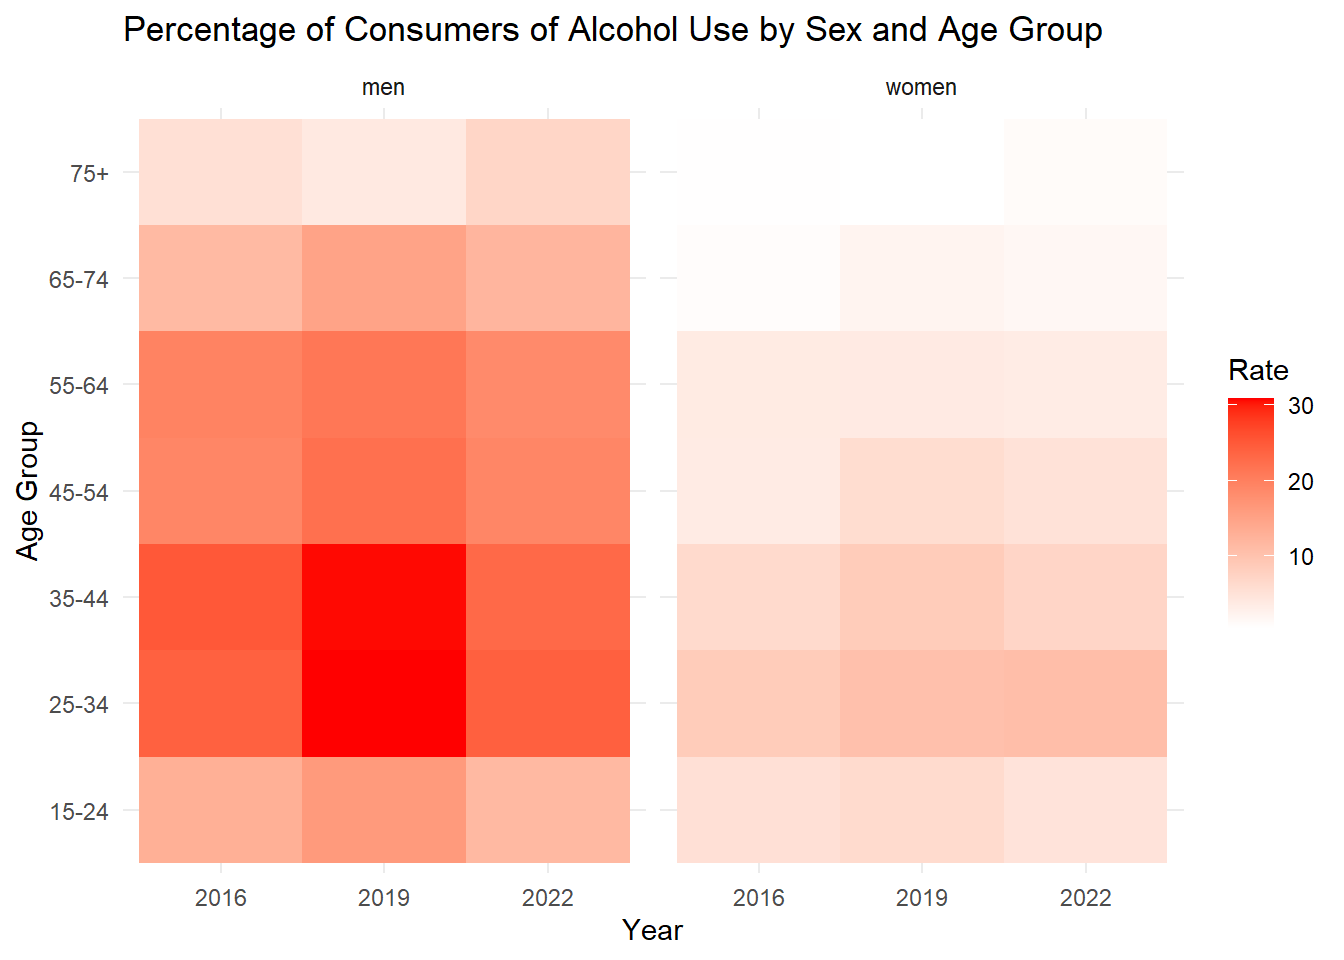
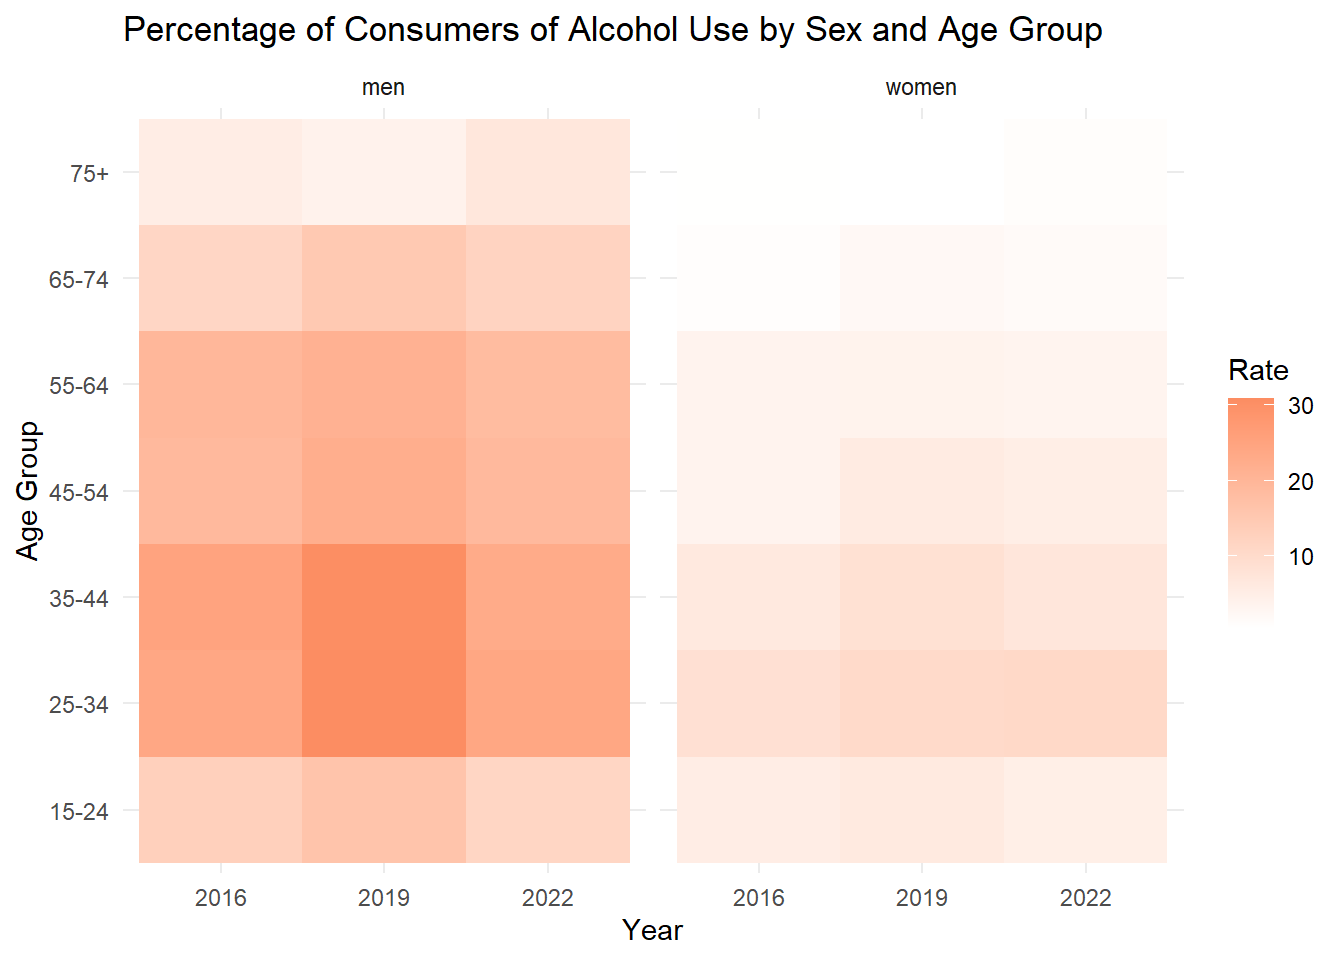
güncelleme

diff --git a/docs/analysis.html b/docs/analysis.html
@@ -2,7 +2,7 @@
 <html xmlns="http://www.w3.org/1999/xhtml" lang="en" xml:lang="en"><head>
 
 <meta charset="utf-8">
-<meta name="generator" content="quarto-1.3.450">
+<meta name="generator" content="quarto-1.3.433">
 
 <meta name="viewport" content="width=device-width, initial-scale=1.0, user-scalable=yes">
 
@@ -226,8 +226,8 @@ pre > code.sourceCode > span > a:first-child::before { text-decoration: underlin
 <span id="cb1-19"><a href="#cb1-19" aria-hidden="true" tabindex="-1"></a>plot</span></code><button title="Copy to Clipboard" class="code-copy-button"><i class="bi"></i></button></pre></div>
 </details>
 <div class="cell-output-display">
-<div class="plotly html-widget html-fill-item" id="htmlwidget-7568283c0e7cecffbe26" style="width:100%;height:464px;"></div>
-<script type="application/json" data-for="htmlwidget-7568283c0e7cecffbe26">{"x":{"visdat":{"f20321f6464":["function () ","plotlyVisDat"]},"cur_data":"f20321f6464","attrs":{"f20321f6464":{"x":{},"y":{},"color":{},"colors":["#1E7DFF","#FC90FF"],"alpha_stroke":1,"sizes":[10,100],"spans":[1,20],"type":"bar"}},"layout":{"margin":{"b":40,"l":60,"t":25,"r":10},"title":{"text":"Average Percentage by Disease with Gender Connection","x":0,"y":1},"xaxis":{"domain":[0,1],"automargin":true,"title":"Diseases","zeroline":false,"tickangle":45,"categoryorder":"trace","type":"category","categoryarray":["Allr","Alzh","Arth","Asth","Copd","Cotlld","Crhd","Dbts","Dprs","Hgbl","Hgbp","Kdnp","Lwbd","Myci","Nckd","Strk","Uipictb"]},"yaxis":{"domain":[0,1],"automargin":true,"title":"Percentage","zeroline":false},"hovermode":"closest","showlegend":true},"source":"A","config":{"modeBarButtonsToAdd":["hoverclosest","hovercompare"],"showSendToCloud":false},"data":[{"x":["Allr","Alzh","Arth","Asth","Copd","Cotlld","Crhd","Dprs","Dbts","Hgbl","Hgbp","Kdnp","Lwbd","Myci","Nckd","Strk","Uipictb"],"y":[7.6779724364790409,5.3735703163394026,5.7861340508108352,5.4275524307911525,5.3487673130767153,1.2211441964735044,6.1027062144225388,5.0380604186408977,8.103265201840971,4.9368112027380731,11.5245198134687,4.7809546304106592,21.107182608504147,2.3602249481860236,11.684533032437804,0.90560624507417242,4.2804255594739535],"type":"bar","name":"men","marker":{"color":"rgba(30,125,255,1)","line":{"color":"rgba(30,125,255,1)"}},"textfont":{"color":"rgba(30,125,255,1)"},"error_y":{"color":"rgba(30,125,255,1)"},"error_x":{"color":"rgba(30,125,255,1)"},"xaxis":"x","yaxis":"y","frame":null},{"x":["Allr","Alzh","Arth","Asth","Copd","Cotlld","Crhd","Dprs","Dbts","Hgbl","Hgbp","Kdnp","Lwbd","Myci","Nckd","Strk","Uipictb"],"y":[14.013354177019723,5.9661781636778537,12.036993765963658,11.045274753893148,8.5300229406048889,1.6750226626665816,7.2785837708678409,10.282917184487278,12.301164289146438,8.0835690134560902,20.579644953340797,6.6018280674777809,33.049019195086963,2.0844825219114096,25.337287795368688,0.83531329571133883,8.4416502158828646],"type":"bar","name":"women","marker":{"color":"rgba(252,144,255,1)","line":{"color":"rgba(252,144,255,1)"}},"textfont":{"color":"rgba(252,144,255,1)"},"error_y":{"color":"rgba(252,144,255,1)"},"error_x":{"color":"rgba(252,144,255,1)"},"xaxis":"x","yaxis":"y","frame":null}],"highlight":{"on":"plotly_click","persistent":false,"dynamic":false,"selectize":false,"opacityDim":0.20000000000000001,"selected":{"opacity":1},"debounce":0},"shinyEvents":["plotly_hover","plotly_click","plotly_selected","plotly_relayout","plotly_brushed","plotly_brushing","plotly_clickannotation","plotly_doubleclick","plotly_deselect","plotly_afterplot","plotly_sunburstclick"],"base_url":"https://plot.ly"},"evals":[],"jsHooks":[]}</script>
+<div class="plotly html-widget html-fill-item" id="htmlwidget-3ce546a6bacd449e5298" style="width:100%;height:464px;"></div>
+<script type="application/json" data-for="htmlwidget-3ce546a6bacd449e5298">{"x":{"visdat":{"43e0755796f":["function () ","plotlyVisDat"]},"cur_data":"43e0755796f","attrs":{"43e0755796f":{"x":{},"y":{},"color":{},"colors":["#1E7DFF","#FC90FF"],"alpha_stroke":1,"sizes":[10,100],"spans":[1,20],"type":"bar"}},"layout":{"margin":{"b":40,"l":60,"t":25,"r":10},"title":{"text":"Average Percentage by Disease with Gender Connection","x":0,"y":1},"xaxis":{"domain":[0,1],"automargin":true,"title":"Diseases","zeroline":false,"tickangle":45,"categoryorder":"trace","type":"category","categoryarray":["Allr","Alzh","Arth","Asth","Copd","Cotlld","Crhd","Dbts","Dprs","Hgbl","Hgbp","Kdnp","Lwbd","Myci","Nckd","Strk","Uipictb"]},"yaxis":{"domain":[0,1],"automargin":true,"title":"Percentage","zeroline":false},"hovermode":"closest","showlegend":true},"source":"A","config":{"modeBarButtonsToAdd":["hoverclosest","hovercompare"],"showSendToCloud":false},"data":[{"x":["Allr","Alzh","Arth","Asth","Copd","Cotlld","Crhd","Dprs","Dbts","Hgbl","Hgbp","Kdnp","Lwbd","Myci","Nckd","Strk","Uipictb"],"y":[7.6779724364790409,5.3735703163394026,5.7861340508108352,5.4275524307911525,5.3487673130767153,1.2211441964735044,6.1027062144225388,5.0380604186408977,8.103265201840971,4.9368112027380731,11.5245198134687,4.7809546304106592,21.107182608504147,2.3602249481860236,11.684533032437804,0.90560624507417242,4.2804255594739535],"type":"bar","name":"men","marker":{"color":"rgba(30,125,255,1)","line":{"color":"rgba(30,125,255,1)"}},"textfont":{"color":"rgba(30,125,255,1)"},"error_y":{"color":"rgba(30,125,255,1)"},"error_x":{"color":"rgba(30,125,255,1)"},"xaxis":"x","yaxis":"y","frame":null},{"x":["Allr","Alzh","Arth","Asth","Copd","Cotlld","Crhd","Dprs","Dbts","Hgbl","Hgbp","Kdnp","Lwbd","Myci","Nckd","Strk","Uipictb"],"y":[14.013354177019723,5.9661781636778537,12.036993765963658,11.045274753893148,8.5300229406048889,1.6750226626665816,7.2785837708678409,10.282917184487278,12.301164289146438,8.0835690134560902,20.579644953340797,6.6018280674777809,33.049019195086963,2.0844825219114096,25.337287795368688,0.83531329571133883,8.4416502158828646],"type":"bar","name":"women","marker":{"color":"rgba(252,144,255,1)","line":{"color":"rgba(252,144,255,1)"}},"textfont":{"color":"rgba(252,144,255,1)"},"error_y":{"color":"rgba(252,144,255,1)"},"error_x":{"color":"rgba(252,144,255,1)"},"xaxis":"x","yaxis":"y","frame":null}],"highlight":{"on":"plotly_click","persistent":false,"dynamic":false,"selectize":false,"opacityDim":0.20000000000000001,"selected":{"opacity":1},"debounce":0},"shinyEvents":["plotly_hover","plotly_click","plotly_selected","plotly_relayout","plotly_brushed","plotly_brushing","plotly_clickannotation","plotly_doubleclick","plotly_deselect","plotly_afterplot","plotly_sunburstclick"],"base_url":"https://plot.ly"},"evals":[],"jsHooks":[]}</script>
 </div>
 </div>
 </section>
@@ -278,8 +278,8 @@ pre > code.sourceCode > span > a:first-child::before { text-decoration: underlin
 <span id="cb3-14"><a href="#cb3-14" aria-hidden="true" tabindex="-1"></a>p6</span></code><button title="Copy to Clipboard" class="code-copy-button"><i class="bi"></i></button></pre></div>
 </details>
 <div class="cell-output-display">
-<div class="plotly html-widget html-fill-item" id="htmlwidget-317a37f352e36abebb73" style="width:100%;height:464px;"></div>
-<script type="application/json" data-for="htmlwidget-317a37f352e36abebb73">{"x":{"visdat":{"f2072af35fe":["function () ","plotlyVisDat"]},"cur_data":"f2072af35fe","attrs":{"f2072af35fe":{"x":{},"y":{},"color":{},"colors":["#1E7DFF","#FC90FF"],"alpha_stroke":1,"sizes":[10,100],"spans":[1,20],"type":"box"}},"layout":{"margin":{"b":40,"l":60,"t":25,"r":10},"boxmode":"group","title":"Distribution of Percentage by Gender for Each Disease","xaxis":{"domain":[0,1],"automargin":true,"title":"Diseases","zeroline":false,"type":"category","categoryorder":"array","categoryarray":["Lwbd","Nckd","Hgbp","Allr","Dbts","Arth","Asth","Dprs","Copd","Crhd","Hgbl","Uipictb","Kdnp","Alzh","Myci","Cotlld","Strk"]},"yaxis":{"domain":[0,1],"automargin":true,"title":"Percentage","zeroline":false},"hovermode":"closest","showlegend":true},"source":"A","config":{"modeBarButtonsToAdd":["hoverclosest","hovercompare"],"showSendToCloud":false},"data":[{"fillcolor":"rgba(30,125,255,0.5)","x":["Allr","Allr","Allr","Alzh","Alzh","Alzh","Arth","Arth","Arth","Asth","Asth","Asth","Copd","Copd","Copd","Cotlld","Cotlld","Cotlld","Crhd","Crhd","Crhd","Dprs","Dprs","Dprs","Dbts","Dbts","Dbts","Hgbl","Hgbl","Hgbl","Hgbp","Hgbp","Hgbp","Kdnp","Kdnp","Kdnp","Myci","Myci","Myci","Nckd","Nckd","Nckd","Strk","Strk","Strk","Uipictb","Uipictb","Uipictb","Lwbd","Lwbd","Lwbd"],"y":[7.5405907316304335,8.926596937477143,6.5667296403295454,5.0956861842644736,5.955258175231009,5.0697665895227262,4.8583613280283595,7.6369456060174947,4.8630952183866514,5.2344601627083343,5.7591128228014483,5.2890843068636748,5.6581225980106504,5.20806800961532,5.1801113316041754,1.0929407289891158,1.4776752112324729,1.0928166491989246,5.8989576926295459,6.5888899894327349,5.8202709612053365,4.8917359673190166,5.7036957945003728,4.5187494941033028,7.1418795380343791,8.2318333903577035,8.9360826771308286,0,7.7063226883459182,7.1041109198683019,11.083737024019969,11.866926961143056,11.622895455243073,5.2254579153229521,4.8759315956880895,4.2414743802209349,2.1051780195948262,2.4845709728617318,2.4909258521015132,11.473857962971559,12.816394200945908,10.763346933395946,0.96268774764124032,0.74958961299222338,1.0045413745890537,3.9222097238349551,5.265234696885404,3.6538322577015006,21.403870359647737,22.589058103467885,19.328619362396815],"type":"box","name":"men","marker":{"color":"rgba(30,125,255,1)","line":{"color":"rgba(30,125,255,1)"}},"line":{"color":"rgba(30,125,255,1)"},"xaxis":"x","yaxis":"y","frame":null},{"fillcolor":"rgba(252,144,255,0.5)","x":["Allr","Allr","Allr","Alzh","Alzh","Alzh","Arth","Arth","Arth","Asth","Asth","Asth","Copd","Copd","Copd","Cotlld","Cotlld","Cotlld","Crhd","Crhd","Crhd","Dprs","Dprs","Dprs","Dbts","Dbts","Dbts","Hgbl","Hgbl","Hgbl","Hgbp","Hgbp","Hgbp","Kdnp","Kdnp","Kdnp","Myci","Myci","Myci","Nckd","Nckd","Nckd","Strk","Strk","Strk","Uipictb","Uipictb","Uipictb","Lwbd","Lwbd","Lwbd"],"y":[13.90024550995577,15.621690956978505,12.518126064124896,6.0655934898177071,6.008264401571866,5.824676599643988,10.462408090340206,14.591047859311281,11.057525348239485,10.316175126689545,12.051521634128072,10.768127500861825,8.8341913587351737,8.9869934022360507,7.7688840608434422,1.8208926122559466,1.7051297368176912,1.4990456389261073,7.1431950426040292,7.732646962014039,6.9599093079854555,9.4407729932995537,12.204514763443914,9.2034637967183688,10.916818965812491,12.180856118197356,13.80581778342947,0,12.478487075945148,11.772219964423121,20.471834686819612,20.814122543063611,20.45297763013917,7.507322857191963,6.4482990276604824,5.8498623175808975,2.004608067001632,1.9404164367068524,2.3084230620257449,24.64700244221444,27.942146894581317,23.422714049310308,0.77190709576156979,0.82627497848858789,0.90775781288385882,7.7890004381493085,10.372254263563597,7.1636959459356886,32.751858380323867,36.596699275532579,29.798499929404436],"type":"box","name":"women","marker":{"color":"rgba(252,144,255,1)","line":{"color":"rgba(252,144,255,1)"}},"line":{"color":"rgba(252,144,255,1)"},"xaxis":"x","yaxis":"y","frame":null}],"highlight":{"on":"plotly_click","persistent":false,"dynamic":false,"selectize":false,"opacityDim":0.20000000000000001,"selected":{"opacity":1},"debounce":0},"shinyEvents":["plotly_hover","plotly_click","plotly_selected","plotly_relayout","plotly_brushed","plotly_brushing","plotly_clickannotation","plotly_doubleclick","plotly_deselect","plotly_afterplot","plotly_sunburstclick"],"base_url":"https://plot.ly"},"evals":[],"jsHooks":[]}</script>
+<div class="plotly html-widget html-fill-item" id="htmlwidget-2fdf49572cfb4026a381" style="width:100%;height:464px;"></div>
+<script type="application/json" data-for="htmlwidget-2fdf49572cfb4026a381">{"x":{"visdat":{"43e01d966bc1":["function () ","plotlyVisDat"]},"cur_data":"43e01d966bc1","attrs":{"43e01d966bc1":{"x":{},"y":{},"color":{},"colors":["#1E7DFF","#FC90FF"],"alpha_stroke":1,"sizes":[10,100],"spans":[1,20],"type":"box"}},"layout":{"margin":{"b":40,"l":60,"t":25,"r":10},"boxmode":"group","title":"Distribution of Percentage by Gender for Each Disease","xaxis":{"domain":[0,1],"automargin":true,"title":"Diseases","zeroline":false,"type":"category","categoryorder":"array","categoryarray":["Lwbd","Nckd","Hgbp","Allr","Dbts","Arth","Asth","Dprs","Copd","Crhd","Hgbl","Uipictb","Kdnp","Alzh","Myci","Cotlld","Strk"]},"yaxis":{"domain":[0,1],"automargin":true,"title":"Percentage","zeroline":false},"hovermode":"closest","showlegend":true},"source":"A","config":{"modeBarButtonsToAdd":["hoverclosest","hovercompare"],"showSendToCloud":false},"data":[{"fillcolor":"rgba(30,125,255,0.5)","x":["Allr","Allr","Allr","Alzh","Alzh","Alzh","Arth","Arth","Arth","Asth","Asth","Asth","Copd","Copd","Copd","Cotlld","Cotlld","Cotlld","Crhd","Crhd","Crhd","Dprs","Dprs","Dprs","Dbts","Dbts","Dbts","Hgbl","Hgbl","Hgbl","Hgbp","Hgbp","Hgbp","Kdnp","Kdnp","Kdnp","Myci","Myci","Myci","Nckd","Nckd","Nckd","Strk","Strk","Strk","Uipictb","Uipictb","Uipictb","Lwbd","Lwbd","Lwbd"],"y":[7.5405907316304335,8.926596937477143,6.5667296403295454,5.0956861842644736,5.955258175231009,5.0697665895227262,4.8583613280283595,7.6369456060174947,4.8630952183866514,5.2344601627083343,5.7591128228014483,5.2890843068636748,5.6581225980106504,5.20806800961532,5.1801113316041754,1.0929407289891158,1.4776752112324729,1.0928166491989246,5.8989576926295459,6.5888899894327349,5.8202709612053365,4.8917359673190166,5.7036957945003728,4.5187494941033028,7.1418795380343791,8.2318333903577035,8.9360826771308286,0,7.7063226883459182,7.1041109198683019,11.083737024019969,11.866926961143056,11.622895455243073,5.2254579153229521,4.8759315956880895,4.2414743802209349,2.1051780195948262,2.4845709728617318,2.4909258521015132,11.473857962971559,12.816394200945908,10.763346933395946,0.96268774764124032,0.74958961299222338,1.0045413745890537,3.9222097238349551,5.265234696885404,3.6538322577015006,21.403870359647737,22.589058103467885,19.328619362396815],"type":"box","name":"men","marker":{"color":"rgba(30,125,255,1)","line":{"color":"rgba(30,125,255,1)"}},"line":{"color":"rgba(30,125,255,1)"},"xaxis":"x","yaxis":"y","frame":null},{"fillcolor":"rgba(252,144,255,0.5)","x":["Allr","Allr","Allr","Alzh","Alzh","Alzh","Arth","Arth","Arth","Asth","Asth","Asth","Copd","Copd","Copd","Cotlld","Cotlld","Cotlld","Crhd","Crhd","Crhd","Dprs","Dprs","Dprs","Dbts","Dbts","Dbts","Hgbl","Hgbl","Hgbl","Hgbp","Hgbp","Hgbp","Kdnp","Kdnp","Kdnp","Myci","Myci","Myci","Nckd","Nckd","Nckd","Strk","Strk","Strk","Uipictb","Uipictb","Uipictb","Lwbd","Lwbd","Lwbd"],"y":[13.90024550995577,15.621690956978505,12.518126064124896,6.0655934898177071,6.008264401571866,5.824676599643988,10.462408090340206,14.591047859311281,11.057525348239485,10.316175126689545,12.051521634128072,10.768127500861825,8.8341913587351737,8.9869934022360507,7.7688840608434422,1.8208926122559466,1.7051297368176912,1.4990456389261073,7.1431950426040292,7.732646962014039,6.9599093079854555,9.4407729932995537,12.204514763443914,9.2034637967183688,10.916818965812491,12.180856118197356,13.80581778342947,0,12.478487075945148,11.772219964423121,20.471834686819612,20.814122543063611,20.45297763013917,7.507322857191963,6.4482990276604824,5.8498623175808975,2.004608067001632,1.9404164367068524,2.3084230620257449,24.64700244221444,27.942146894581317,23.422714049310308,0.77190709576156979,0.82627497848858789,0.90775781288385882,7.7890004381493085,10.372254263563597,7.1636959459356886,32.751858380323867,36.596699275532579,29.798499929404436],"type":"box","name":"women","marker":{"color":"rgba(252,144,255,1)","line":{"color":"rgba(252,144,255,1)"}},"line":{"color":"rgba(252,144,255,1)"},"xaxis":"x","yaxis":"y","frame":null}],"highlight":{"on":"plotly_click","persistent":false,"dynamic":false,"selectize":false,"opacityDim":0.20000000000000001,"selected":{"opacity":1},"debounce":0},"shinyEvents":["plotly_hover","plotly_click","plotly_selected","plotly_relayout","plotly_brushed","plotly_brushing","plotly_clickannotation","plotly_doubleclick","plotly_deselect","plotly_afterplot","plotly_sunburstclick"],"base_url":"https://plot.ly"},"evals":[],"jsHooks":[]}</script>
 </div>
 </div>
 </section>
@@ -295,7 +295,7 @@ pre > code.sourceCode > span > a:first-child::before { text-decoration: underlin
 <span id="cb4-2"><a href="#cb4-2" aria-hidden="true" tabindex="-1"></a>  <span class="fu">geom_boxplot</span>() <span class="sc">+</span></span>
 <span id="cb4-3"><a href="#cb4-3" aria-hidden="true" tabindex="-1"></a>  <span class="fu">facet_grid</span>(. <span class="sc">~</span> usage) <span class="sc">+</span></span>
 <span id="cb4-4"><a href="#cb4-4" aria-hidden="true" tabindex="-1"></a>  <span class="fu">labs</span>(<span class="at">title =</span> <span class="st">"Distribution of Alcohol Usage Rate by Consume Status and Gender"</span>,</span>
-<span id="cb4-5"><a href="#cb4-5" aria-hidden="true" tabindex="-1"></a>       <span class="at">x =</span> <span class="st">"Consume Status"</span>,</span>
+<span id="cb4-5"><a href="#cb4-5" aria-hidden="true" tabindex="-1"></a>       <span class="at">x =</span> <span class="st">"Gender"</span>,</span>
 <span id="cb4-6"><a href="#cb4-6" aria-hidden="true" tabindex="-1"></a>       <span class="at">y =</span> <span class="st">"Rate"</span>) <span class="sc">+</span></span>
 <span id="cb4-7"><a href="#cb4-7" aria-hidden="true" tabindex="-1"></a>  <span class="fu">scale_fill_manual</span>(<span class="at">values =</span> <span class="fu">c</span>(<span class="st">"women"</span> <span class="ot">=</span> <span class="st">"#FC90FF"</span>, <span class="st">"men"</span> <span class="ot">=</span> <span class="st">"#1E7DFF"</span>), </span>
 <span id="cb4-8"><a href="#cb4-8" aria-hidden="true" tabindex="-1"></a>                    <span class="at">breaks =</span> <span class="fu">c</span>(<span class="st">"women"</span>, <span class="st">"men"</span>)) <span class="sc">+</span></span>
@@ -346,7 +346,7 @@ pre > code.sourceCode > span > a:first-child::before { text-decoration: underlin
 <span id="cb6-8"><a href="#cb6-8" aria-hidden="true" tabindex="-1"></a>       <span class="at">x =</span> <span class="st">"Year"</span>,</span>
 <span id="cb6-9"><a href="#cb6-9" aria-hidden="true" tabindex="-1"></a>       <span class="at">y =</span> <span class="st">"Age Group"</span>,</span>
 <span id="cb6-10"><a href="#cb6-10" aria-hidden="true" tabindex="-1"></a>       <span class="at">fill =</span> <span class="st">"Rate"</span>) <span class="sc">+</span></span>
-<span id="cb6-11"><a href="#cb6-11" aria-hidden="true" tabindex="-1"></a>  <span class="fu">scale_fill_gradient</span>(<span class="at">low =</span> <span class="st">"white"</span>, <span class="at">high =</span> <span class="st">"red"</span>) <span class="sc">+</span></span>
+<span id="cb6-11"><a href="#cb6-11" aria-hidden="true" tabindex="-1"></a>  <span class="fu">scale_fill_gradient</span>(<span class="at">low =</span> <span class="st">"white"</span>, <span class="at">high =</span> <span class="st">"#fc8d62"</span>) <span class="sc">+</span></span>
 <span id="cb6-12"><a href="#cb6-12" aria-hidden="true" tabindex="-1"></a>  <span class="fu">theme_minimal</span>()</span></code><button title="Copy to Clipboard" class="code-copy-button"><i class="bi"></i></button></pre></div>
 </details>
 <div class="cell-output-display">
